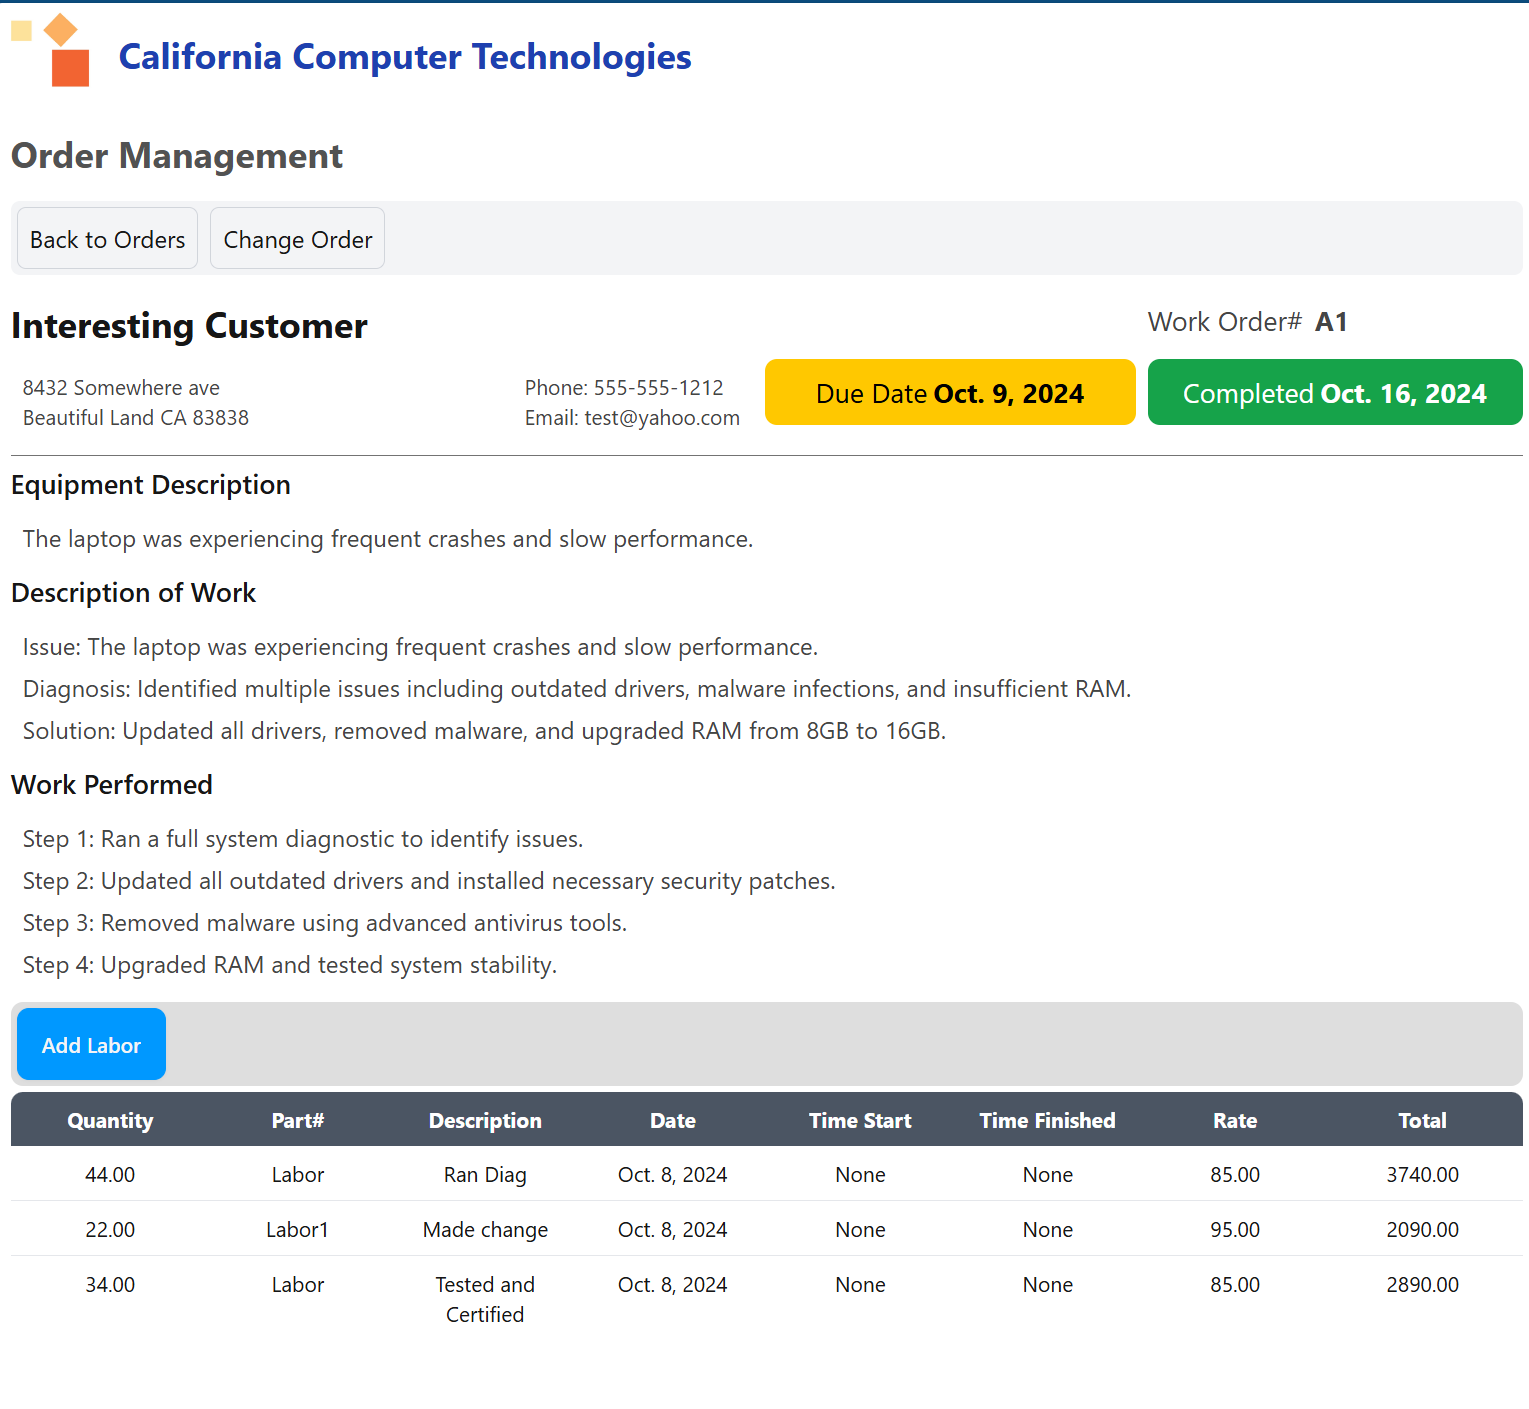
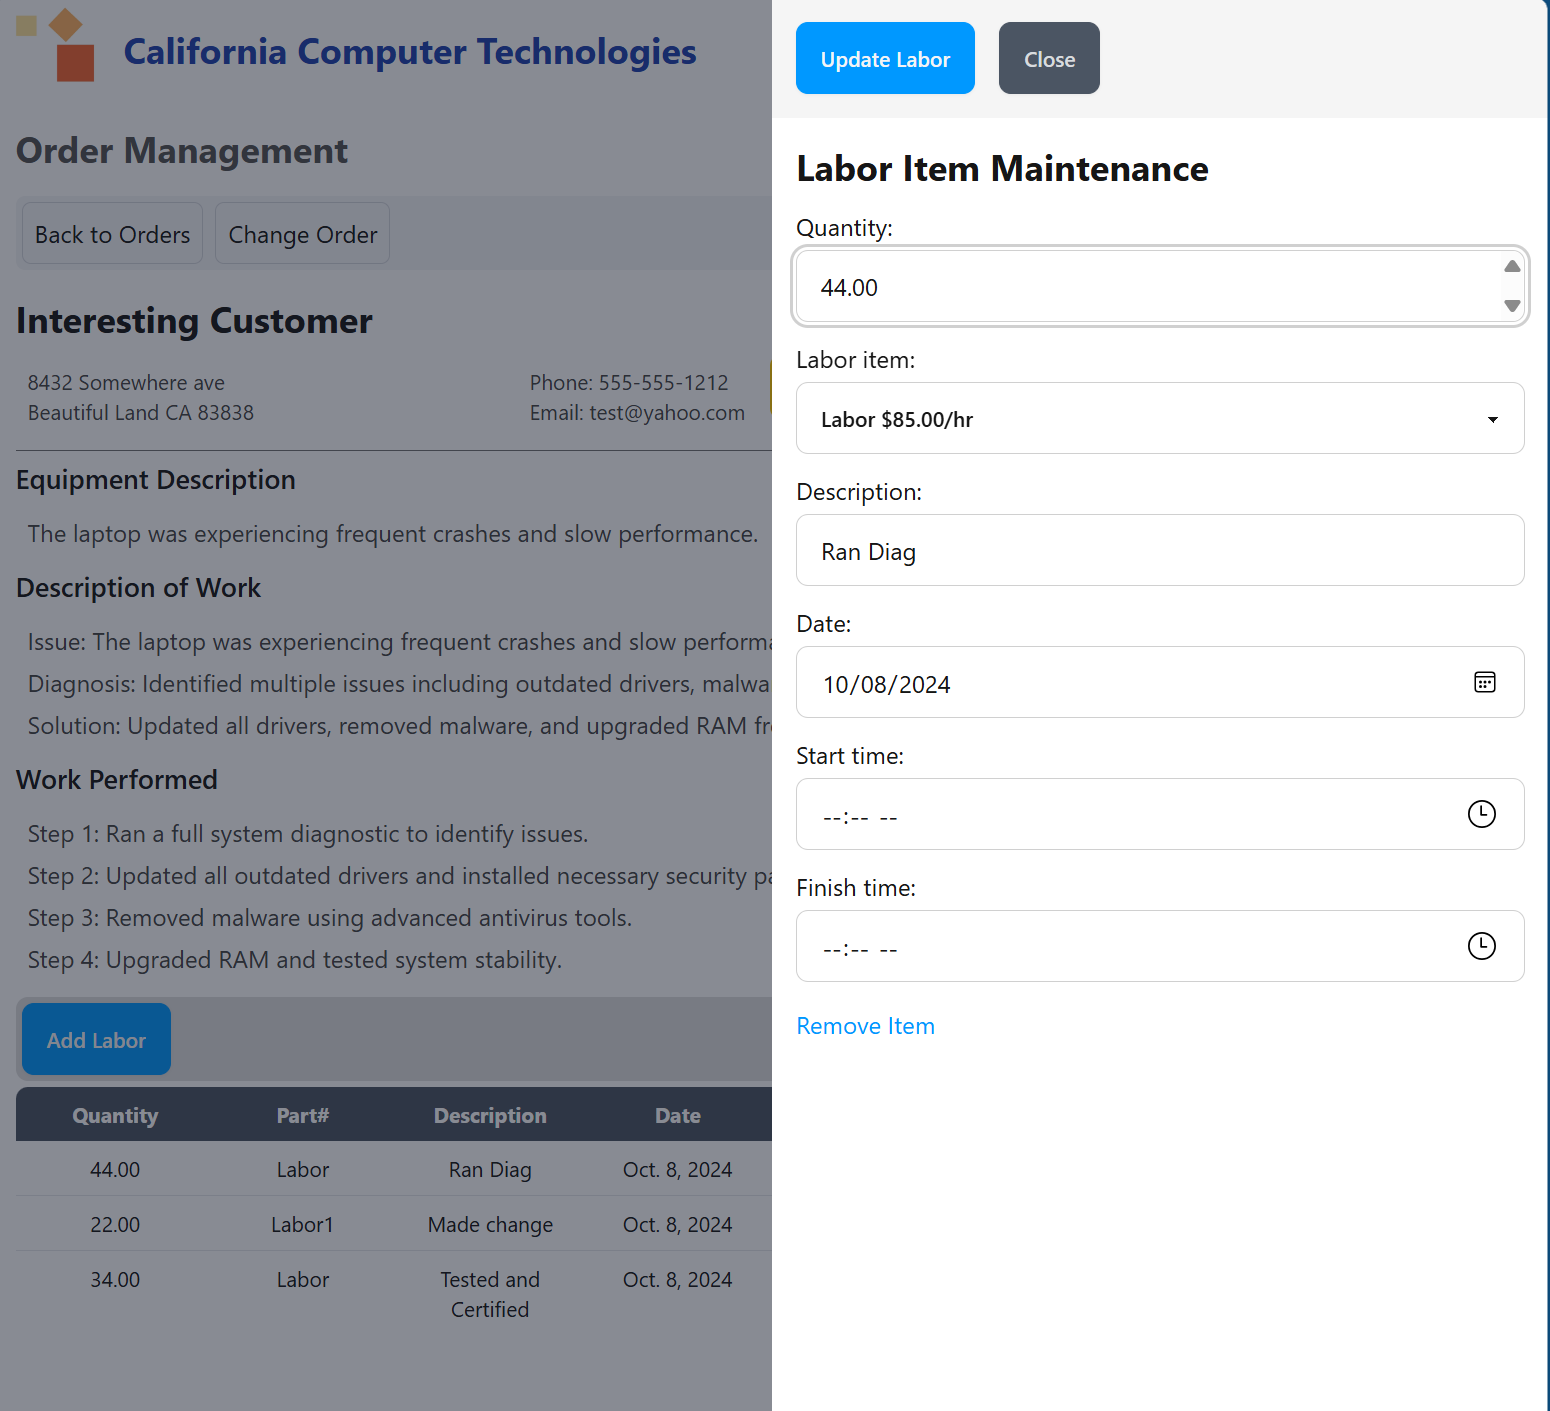
updated images

diff --git a/README.md b/README.md
@@ -2,4 +2,8 @@
 
 ## Order View
 
-![View](doc/order-view.png "Order Detail View")
+![View](docs/order-detail-view.png "Order Detail View")
+
+## Add Labor
+
+![Labor](docs/add-labor.png "Add Labor")
